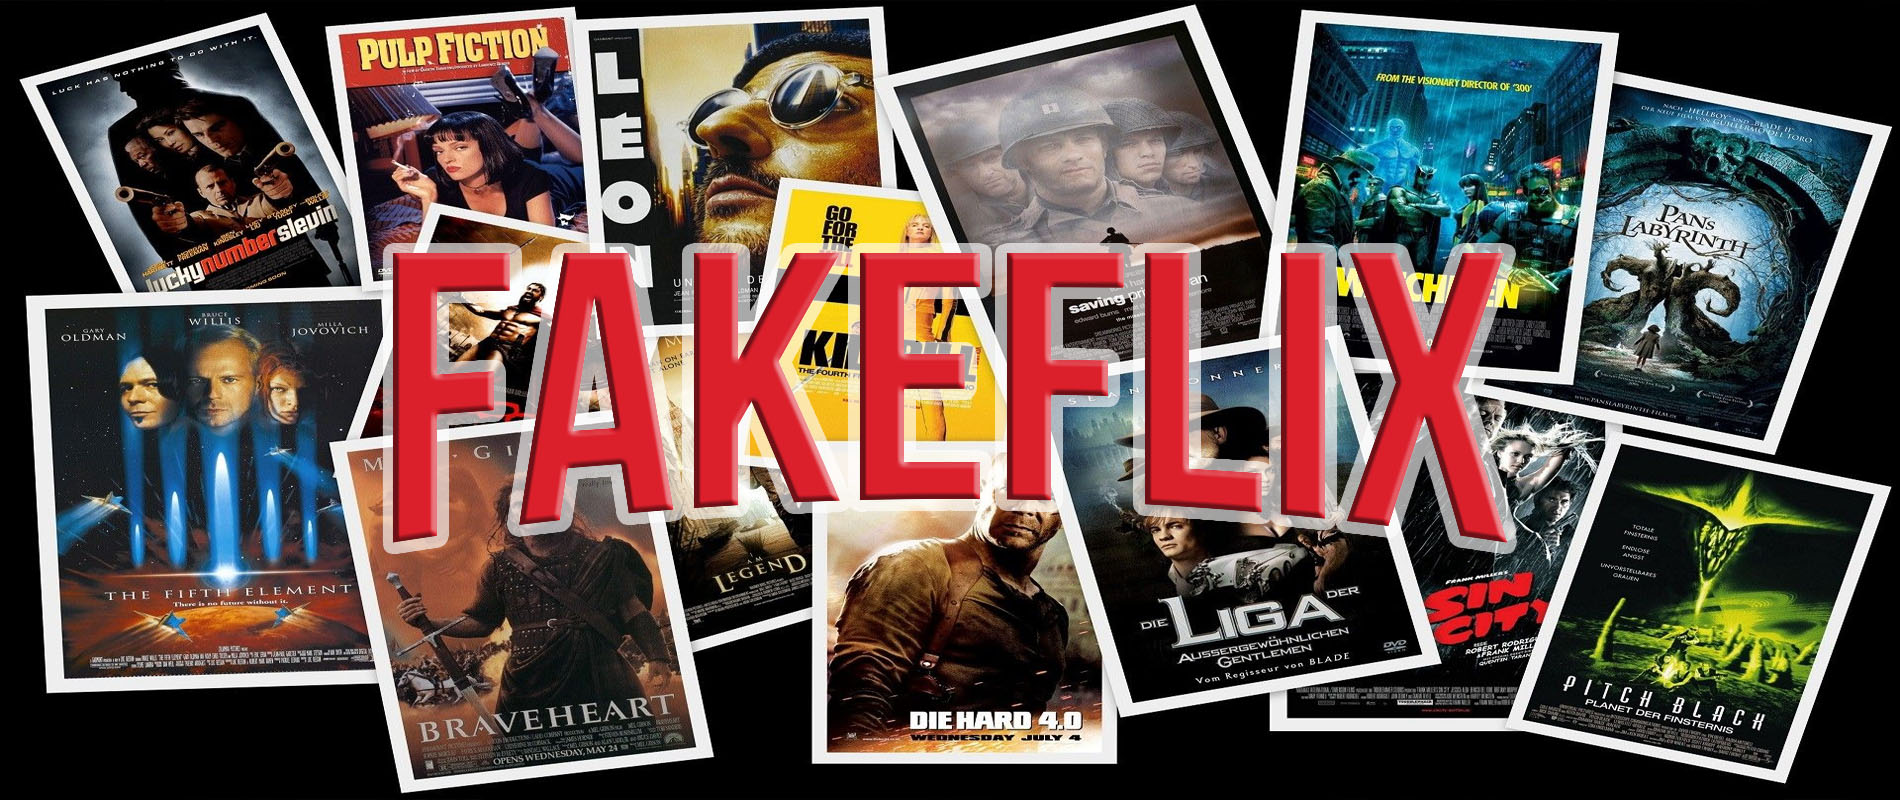
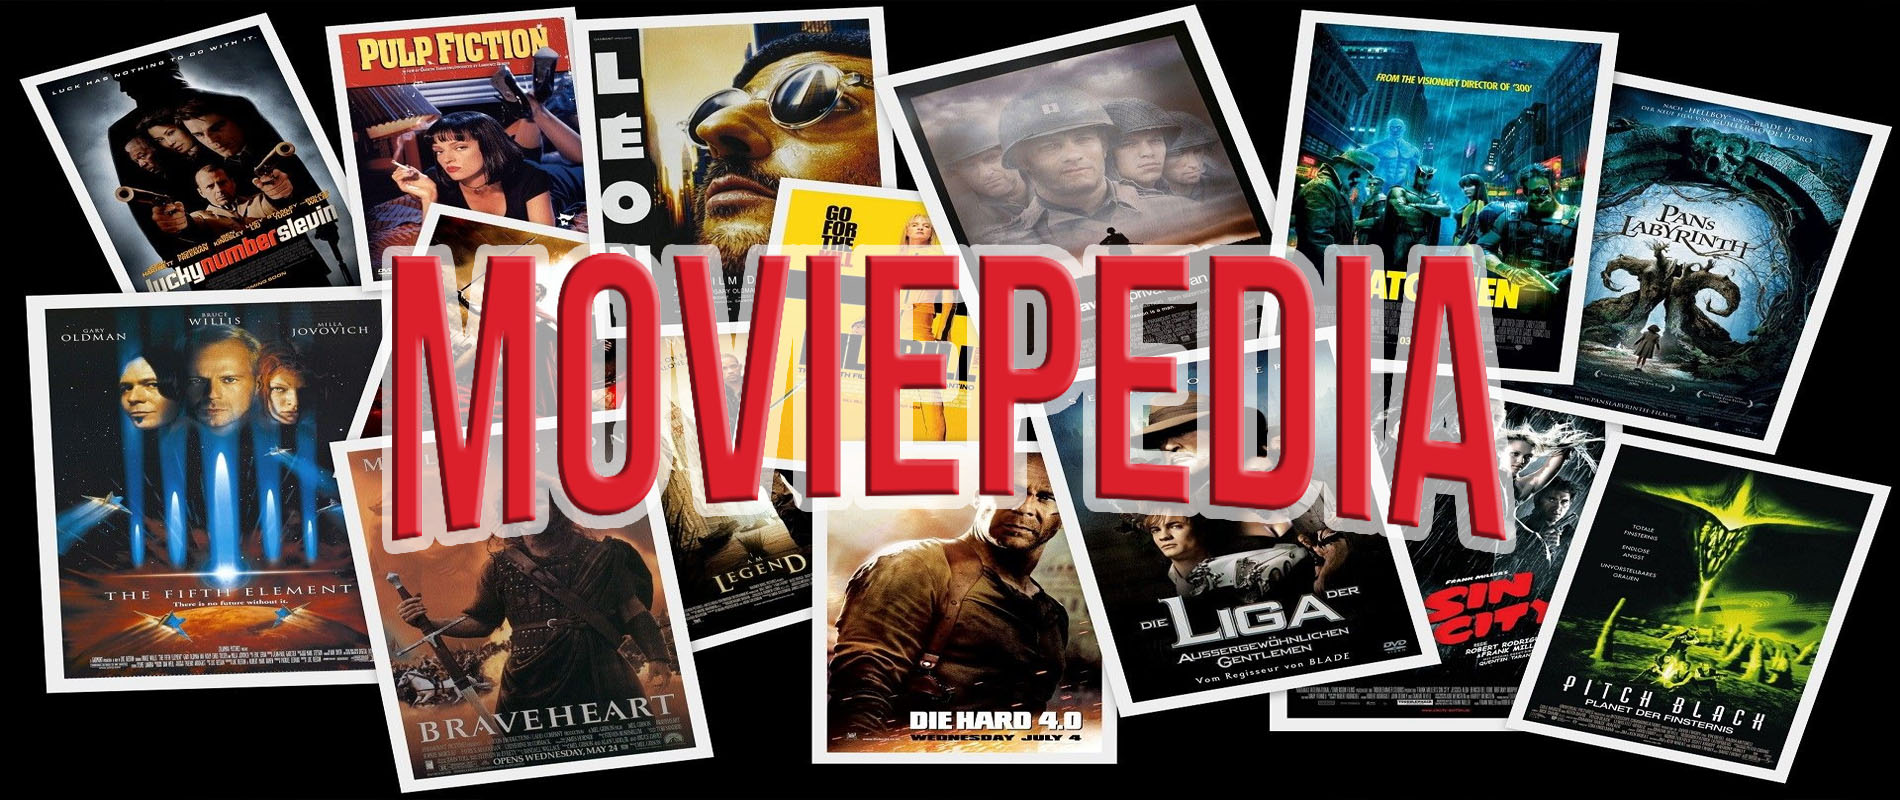
TP listo para presentar

Changed region(s): [[0.1863, 0.2812, 0.8074, 0.6875]]

diff --git a/tmdb-app-master/index.html b/tmdb-app-master/index.html
@@ -5,7 +5,7 @@
     <meta name="viewport" content="width=device-width, initial-scale=1">
     <link rel="stylesheet" href="https://cdnjs.cloudflare.com/ajax/libs/normalize/5.0.0/normalize.min.css">
     <link href="https://fonts.googleapis.com/css?family=Roboto:300,400,500&amp;subset=cyrillic" rel="stylesheet">
-    <title>FakeFlix</title>
+    <title>MoviePedia</title>
     <link rel="apple-touch-icon" sizes="180x180" href="/favicons/apple-touch-icon.png">
     <link rel="icon" type="image/png" href="/favicons/favicon-32x32.png">
     <link rel="manifest" href="/favicons/manifest.json">
@@ -15,7 +15,7 @@
   <body>
     <svg xmlns="http://www.w3.org/2000/svg" xmlns:xlink="http://www.w3.org/1999/xlink" width="0" height="0" style="position:absolute">
       <symbol id="svgLogo" viewBox="0 0 20 20">
-        <title>FakeFlix Home</title>
+        <title>MoviePedia Home</title>
         <path d="M18.121,9.88l-7.832-7.836c-0.155-0.158-0.428-0.155-0.584,0L1.842,9.913c-0.262,0.263-0.073,0.705,0.292,0.705h2.069v7.042c0,0.227,0.187,0.414,0.414,0.414h3.725c0.228,0,0.414-0.188,0.414-0.414v-3.313h2.483v3.313c0,0.227,0.187,0.414,0.413,0.414h3.726c0.229,0,0.414-0.188,0.414-0.414v-7.042h2.068h0.004C18.331,10.617,18.389,10.146,18.121,9.88 M14.963,17.245h-2.896v-3.313c0-0.229-0.186-0.415-0.414-0.415H8.342c-0.228,0-0.414,0.187-0.414,0.415v3.313H5.032v-6.628h9.931V17.245z M3.133,9.79l6.864-6.868l6.867,6.868H3.133z"></path>      <symbol id="icon_popular" viewBox="0 0 30 30">
         <title>Popular</title>
         <path d="M27.6684375,11.6432813 C28.2116602,11.1137695 28.4034375,10.3366406 28.1690625,9.61517578 C27.9346289,8.89371094 27.3226758,8.37779297 26.5719727,8.26875 L20.0077148,7.31490234 C19.8788672,7.29621094 19.7674805,7.21529297 19.7098242,7.09845703 L16.7742187,1.1503125 C16.4385352,0.470039062 15.7587305,0.0474609375 15.0001172,0.0474609375 C14.2415039,0.0474609375 13.5616992,0.470039062 13.2260156,1.1503125 L10.2904102,7.09851563 C10.2326953,7.21529297 10.1213672,7.29621094 9.99246094,7.31496094 L3.42832031,8.26875 C2.67761719,8.37779297 2.06572266,8.89371094 1.83123047,9.61517578 C1.59673828,10.3366406 1.78857422,11.1137695 2.33185547,11.6432813 L7.08175781,16.2733008 C7.17498047,16.3642383 7.21757812,16.4951953 7.19554687,16.6235742 L6.07423828,23.1612305 C5.94603516,23.9089453 6.24755859,24.650332 6.86126953,25.0962305 C7.47498047,25.5422461 8.27349609,25.5998438 8.94486328,25.2469336 L14.8160156,22.1602734 C14.9313281,22.0996289 15.0689648,22.0996289 15.1843359,22.1602734 L21.0555469,25.2469336 C21.3475781,25.4004492 21.6635742,25.4763281 21.9780469,25.4762695 C22.3864453,25.4762695 22.7922656,25.3483008 23.1389648,25.0961719 C23.7526758,24.6502148 24.0542578,23.9087695 23.9259961,23.1611719 L22.8046875,16.6235156 C22.7827148,16.4951367 22.8252539,16.3641797 22.9184766,16.2732422 L27.6684375,11.6432813 Z M21.2448633,16.8911719 L22.3661719,23.4289453 C22.4036719,23.6477344 22.2686133,23.7724805 22.2087891,23.8158984 C22.1489062,23.8592578 21.9884766,23.9493164 21.7920703,23.845957 L15.9208594,20.7592969 C15.6326367,20.607832 15.3164648,20.5320117 15.0002344,20.5320117 C14.6840039,20.5320117 14.3677734,20.607832 14.0796094,20.7592383 L8.20845703,23.8458398 C8.01193359,23.9491406 7.8515625,23.8591992 7.79173828,23.8157813 C7.73191406,23.7723633 7.59679688,23.6476172 7.63435547,23.4288281 L8.75566406,16.8911719 C8.86576172,16.2492773 8.653125,15.594668 8.18666016,15.1400391 L3.43675781,10.5100195 C3.27779297,10.3549805 3.31376953,10.1746875 3.33667969,10.104375 C3.35947266,10.0340039 3.43640625,9.86695313 3.65607422,9.83507813 L10.2201563,8.88123047 C10.8646289,8.78759766 11.4215625,8.38306641 11.7098437,7.79894531 L14.6454492,1.85074219 C14.7437109,1.65169922 14.9262891,1.63019531 15.000293,1.63019531 C15.0741797,1.63019531 15.2567578,1.65164063 15.3550781,1.85074219 L15.3550781,1.85080078 L18.2906836,7.79900391 C18.5789062,8.383125 19.1357813,8.78765625 19.7802539,8.88128906 L26.3444531,9.83513672 C26.5641211,9.86701172 26.6409961,10.0340625 26.6638477,10.1044336 C26.6866992,10.1748047 26.7227344,10.3551563 26.5637109,10.5100781 L21.8138086,15.1400977 C21.3474023,15.594668 21.1347656,16.2492773 21.2448633,16.8911719 Z M24.2450977,1.14990234 C24.5987109,1.40677734 24.6770508,1.90171875 24.4201758,2.25533203 L23.5801172,3.41150391 C23.4253125,3.62455078 23.1840234,3.73769531 22.9392773,3.73769531 C22.7780273,3.73769531 22.6153125,3.68853516 22.4747461,3.58652344 C22.1211328,3.32964844 22.042793,2.83470703 22.299668,2.48115234 L23.1397266,1.32498047 C23.3966016,0.971425781 23.8914258,0.893027344 24.2450977,1.14990234 Z M7.696875,2.47646484 C7.95380859,2.83007812 7.87541016,3.32501953 7.52185547,3.58183594 C7.38146484,3.68390625 7.21869141,3.73306641 7.05738281,3.73306641 C6.81257813,3.73306641 6.57128906,3.61998047 6.41642578,3.40675781 L5.57636719,2.25058594 C5.31949219,1.89703125 5.39789063,1.40208984 5.75144531,1.14521484 C6.10511719,0.888457031 6.6,0.966855469 6.85681641,1.32029297 L7.696875,2.47646484 Z M2.9034375,17.8024805 C3.03849609,18.2182031 2.81103516,18.6646289 2.39537109,18.7996875 L1.03617188,19.2413672 C0.954902344,19.267793 0.872460937,19.2803906 0.791425781,19.2803906 C0.457851563,19.2803906 0.147597656,19.0678125 0.0389648437,18.7333008 C-0.09609375,18.3176953 0.131308594,17.8711523 0.54703125,17.7360938 L1.90623047,17.2944141 C2.32195313,17.1593555 2.76837891,17.386875 2.9034375,17.8024805 Z M15.000293,26.5890234 C15.4374023,26.5890234 15.7916602,26.9432813 15.7916602,27.3803906 L15.7916602,28.8096094 C15.7916602,29.2466602 15.4373437,29.6009766 15.000293,29.6009766 C14.5632422,29.6009766 14.2089258,29.2466602 14.2089258,28.8096094 L14.2089258,27.3803906 C14.2089258,26.9433398 14.5632422,26.5890234 15.000293,26.5890234 Z M29.4529688,17.737207 C29.8686328,17.8722656 30.0960938,18.3186914 29.9610352,18.7343555 C29.8524023,19.0688086 29.5421484,19.2814453 29.2085156,19.2814453 C29.1274805,19.2814453 29.0450977,19.2689063 28.9638281,19.2425391 L27.6046289,18.8008594 C27.1889063,18.6658008 26.9615039,18.219375 27.0965625,17.8036523 C27.2316211,17.3879297 27.6782227,17.1605859 28.0937695,17.2955273 L29.4529688,17.737207 Z" fill-rule="nonzero"></path>

diff --git a/tmdb-app-master/src/components/Navigation.vue b/tmdb-app-master/src/components/Navigation.vue
@@ -8,7 +8,7 @@
     </div>
     <tr class="nav__list">
       <td class="nav__item">
-        <router-link class="nav__link" :to="{name: 'home'}" exact title="FakeFlix">
+        <router-link class="nav__link" :to="{name: 'home'}" exact title="MoviePedia">
       <div class="nav__link-wrap">
             <svg class="nav__link-icon">
               <use :xlink:href="'#svgLogo'"></use>
@@ -105,15 +105,15 @@ export default {
     }
     &:hover &-image {
       transform: scale(1.04);
-      fill: $c-green;
+      fill: $c-red;
     }
     &.is-active &-image{
-      color: $c-green;
-      fill: $c-green;
+      color: $c-red;
+      fill: $c-red;
       background: $c-light;
     }
     &.is-active &-icon{
-      fill: $c-green;
+      fill: $c-red;
     }
   }
   }
@@ -178,7 +178,7 @@ export default {
   }
   &__list{
     list-style: none;
-    fill: $c-green;
+    fill: $c-red;
     padding: 0;
     margin: 0;
     color: #fff;
@@ -191,7 +191,7 @@ export default {
     border-top: 1px solid $c-light;
     @include mobile-only{
       font-size: 0;
-      fill: $c-green;
+      fill: $c-red;
       opacity: 0;
       visibility: hidden;
       height: calc(100vh - 50px);
@@ -204,7 +204,7 @@ export default {
     }
     @include tablet-min{
       display: flex;
-      fill: $c-green;
+      fill: $c-red;
       background: transparent;
       position: relative;
       display: block;
@@ -216,7 +216,7 @@ export default {
   &__item{
     @include mobile-only{
       display: inline-block;
-      fill: $c-green;
+      fill: $c-red;
       text-align: center;
       width: 50%;
       &:nth-child(odd){
@@ -225,7 +225,7 @@ export default {
     }
     @include tablet-min{
       width: 100%;
-      fill: $c-green;
+      fill: $c-red;
       &--profile{
         position: fixed;
         right: 0;
@@ -239,7 +239,7 @@ export default {
   }
   &__link{
     width: 100%;
-    fill: $c-green;
+    fill: $c-red;
     color: #fff;
     display: flex;
     flex-wrap: wrap;
@@ -255,12 +255,12 @@ export default {
     cursor: pointer;
     @include mobile-only{
       font-size: 10px;
-      fill: $c-green;
+      fill: $c-red;
       padding: 20px 0;
     }
     @include tablet-min{
       width: 95px;
-      fill: $c-green;
+      fill: $c-red;
       height: 95px;
       font-size: 9px;
       &--profile{
@@ -287,14 +287,14 @@ export default {
       width: 100%;
     }
     &:hover{
-      color: $c-green;
+      color: $c-red;
     }
     &:hover &-icon{
-      fill: $c-green;
+      fill: $c-red;
     }
     &.is-active{
       color: $c-white;
-      background: rgba($c-green, 0.5);
+      background: rgba($c-red, 0.5);
     }
     &.is-active &-icon{
       fill: $c-white;

diff --git a/tmdb-app-master/src/components/Movie.vue b/tmdb-app-master/src/components/Movie.vue
@@ -438,7 +438,7 @@ export default {
         fill: rgba($c-dark, 0.75);
       }
       &-link.active &-icon{
-        fill: $c-green;
+        fill: $c-red;
       }
       &-text{
         display: block;
@@ -481,7 +481,7 @@ export default {
           font-weight: 400;
           text-transform: uppercase;
           font-size: 14px;
-          color: $c-green;
+          color: $c-red;
           @include tablet-min{
             font-size: 16px;
           }
@@ -493,7 +493,7 @@ export default {
         }
         &-texth{
           font-weight: 300;
-          color: $c-green;
+          color: $c-red;
           font-size: 16px;
           background: rgba($c-dark, 0.5);
           width: 150px;

diff --git a/tmdb-app-master/src/App.vue b/tmdb-app-master/src/App.vue
@@ -172,7 +172,7 @@ img{
   top: 50%;
   width: 30px;
   &:after {
-    border: 5px solid $c-green;
+    border: 5px solid $c-red;
     border-radius: 50%;
     content: '';
     left: 10px;

diff --git a/tmdb-app-master/src/components/Home.vue b/tmdb-app-master/src/components/Home.vue
@@ -20,7 +20,7 @@ export default {
     }
   },
   created(){
-    document.title = 'FakeFlix';
+    document.title = 'MoviePedia';
     storage.backTitle = document.title;
   }
 }

diff --git a/tmdb-app-master/src/components/MoviePopup.vue b/tmdb-app-master/src/components/MoviePopup.vue
@@ -79,7 +79,7 @@ export default {
       transform: rotate(-45deg);
     }
     &:hover{
-      background: $c-green;
+      background: $c-red;
     }
   }
 }

diff --git a/tmdb-app-master/src/scss/variables.scss b/tmdb-app-master/src/scss/variables.scss
@@ -1,5 +1,5 @@
 // Colors
-$c-green: #a10000;
+$c-red: #a10000;
 $c-dark: #000000;
 $c-white: #ffffff;
 $c-light: #000000;
